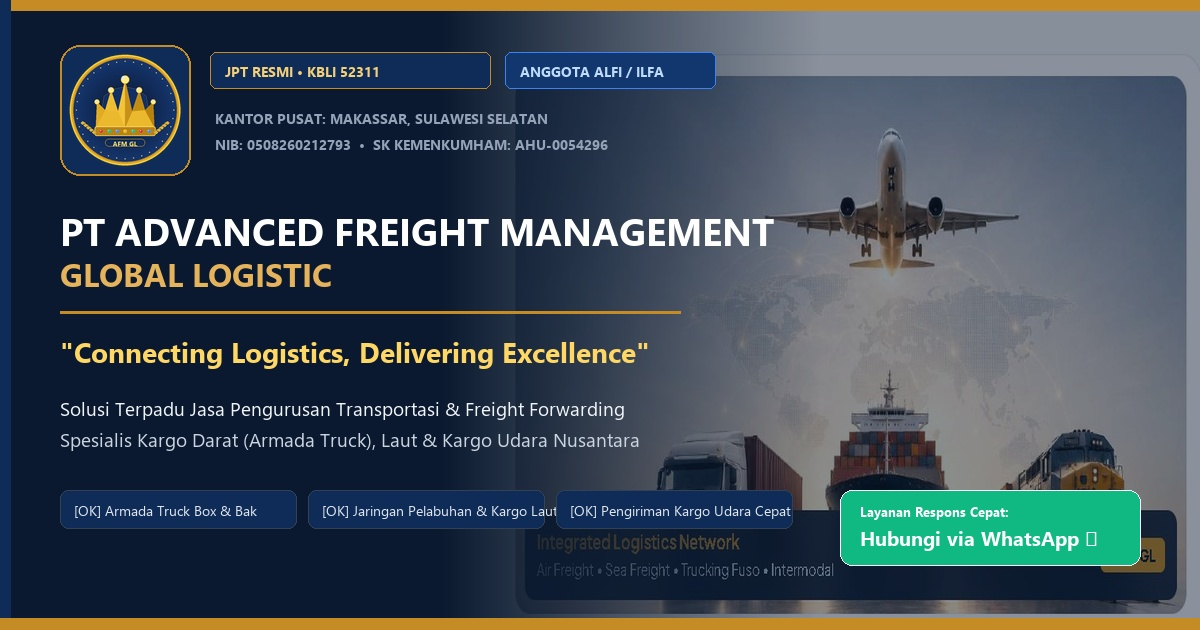
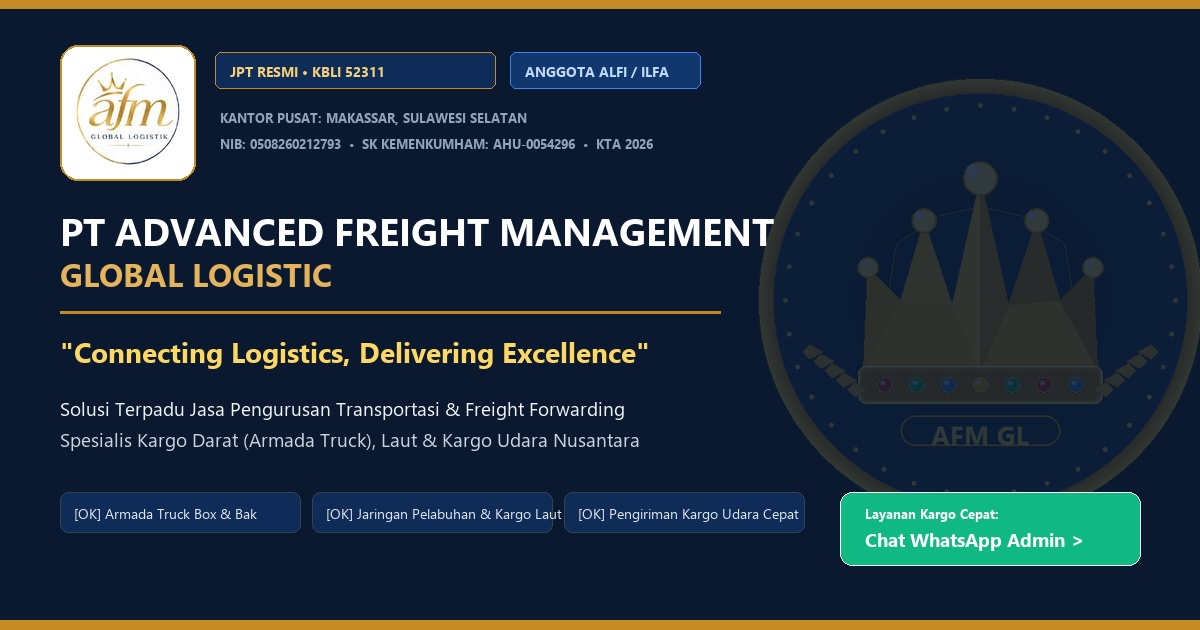
Add files via upload

diff --git a/index.html b/index.html
@@ -29,7 +29,7 @@
   <link rel="image_src" href="assets/images/og-thumbnail-afm.jpg">
 
   <!-- Favicon -->
-  <link rel="icon" type="image/png" href="assets/images/crown-logo-header.png">
+  <link rel="icon" type="image/png" href="assets/images/afm-logo.png">
 
   <!-- Tailwind CSS CDN -->
   <script src="https://cdn.tailwindcss.com"></script>
@@ -90,14 +90,20 @@
   </div>
 
   <!-- MODERN HEADER / NAVBAR (Kekinian, Bersih & Elegan) -->
-  <header class="sticky top-0 z-40 modern-nav shadow-sm">
-    <div class="max-w-7xl mx-auto px-4 sm:px-6 lg:px-8">
+  <header class="sticky top-0 z-40 modern-nav shadow-sm relative overflow-hidden">
+    
+    <!-- Crown Decorative Watermark Background (Pemanis Header) -->
+    <div class="absolute right-6 top-1/2 -translate-y-1/2 w-28 h-28 opacity-[0.07] pointer-events-none select-none overflow-hidden hidden md:block">
+      <img src="assets/images/crown-logo-header.png" alt="" class="w-full h-full object-contain">
+    </div>
+
+    <div class="max-w-7xl mx-auto px-4 sm:px-6 lg:px-8 relative z-10">
       <div class="flex items-center justify-between h-16 sm:h-20">
         
-        <!-- Logo PT Resmi (Logo Mahkota Emas & AFM GL) -->
+        <!-- Logo PT Asli Resmi (AFM GL) -->
         <a href="#beranda" class="flex items-center gap-2.5 sm:gap-3 group">
           <div class="relative shrink-0">
-            <img src="assets/images/crown-logo-header.png" alt="Logo Mahkota Emas PT AFM Global Logistic" class="w-10 h-10 sm:w-12 sm:h-12 rounded-full object-contain border-2 border-amber-300 shadow-md p-0.5 bg-navy-dark">
+            <img src="assets/images/afm-logo.png" alt="Logo Resmi PT AFM Global Logistic" class="w-10 h-10 sm:w-12 sm:h-12 rounded-full object-contain border-2 border-gold-accent/40 shadow-sm p-0.5 bg-white group-hover:border-gold-accent transition">
             <span class="absolute -bottom-0.5 -right-0.5 w-3 h-3 rounded-full bg-emerald-500 border-2 border-white" title="Operasional Aktif"></span>
           </div>
           <div class="flex flex-col">
@@ -255,7 +261,7 @@
             <!-- Integrated Clean Mobile-Fit Footer Bar (Never covers the vehicles!) -->
             <div class="mt-3 pt-2.5 border-t border-slate-100 flex flex-col sm:flex-row sm:items-center justify-between gap-2 text-xs">
               <div class="flex items-center gap-2">
-                <img src="assets/images/crown-logo-header.png" alt="Logo Mahkota Emas PT AFM GL" class="w-7 h-7 rounded-full object-contain p-0.5 bg-navy-dark border border-amber-300 shrink-0">
+                <img src="assets/images/afm-logo.png" alt="Logo Resmi PT AFM GL" class="w-7 h-7 rounded-full object-contain p-0.5 bg-white border border-slate-200 shadow-sm shrink-0">
                 <div>
                   <div class="font-extrabold text-navy-primary text-xs leading-tight">PT AFM GLOBAL LOGISTIC</div>
                   <div class="text-[10px] text-gold-accent font-semibold">“Connecting Logistics, Delivering Excellence”</div>
@@ -1253,13 +1259,19 @@
   </section>
 
   <!-- MODERN & ATTRACTIVE FOOTER (Kekinian, Rapi & Elegan) -->
-  <footer class="bg-navy-dark text-slate-400 text-xs py-10 border-t border-navy-subtle/50">
-    <div class="max-w-7xl mx-auto px-4 sm:px-6 lg:px-8">
+  <footer class="relative overflow-hidden bg-navy-dark text-slate-400 text-xs py-10 border-t border-navy-subtle/50">
+    
+    <!-- Crown Decorative Watermark Background (Pemanis Footer) -->
+    <div class="absolute -right-8 -bottom-10 w-64 h-64 opacity-[0.06] pointer-events-none select-none overflow-hidden hidden md:block">
+      <img src="assets/images/crown-logo-header.png" alt="" class="w-full h-full object-contain filter brightness-125">
+    </div>
+
+    <div class="max-w-7xl mx-auto px-4 sm:px-6 lg:px-8 relative z-10">
       <div class="grid grid-cols-1 md:grid-cols-2 lg:grid-cols-12 gap-6 mb-8">
         
         <div class="lg:col-span-5 space-y-3">
           <div class="flex items-center gap-3">
-            <img src="assets/images/crown-logo-header.png" alt="Logo PT AFM Global Logistic" class="w-10 h-10 rounded-full bg-navy-primary p-1 border border-gold-accent/40 object-contain shrink-0 shadow-md">
+            <img src="assets/images/afm-logo.png" alt="Logo Resmi PT AFM Global Logistic" class="w-11 h-11 rounded-full bg-white p-1 border border-gold-accent/40 object-contain shrink-0 shadow-sm">
             <div>
               <div class="text-white font-extrabold text-xs sm:text-sm">PT ADVANCED FREIGHT MANAGEMENT GLOBAL LOGISTIC</div>
               <div class="text-gold-accent text-[11px] font-semibold">Connecting Logistics, Delivering Excellence</div>
